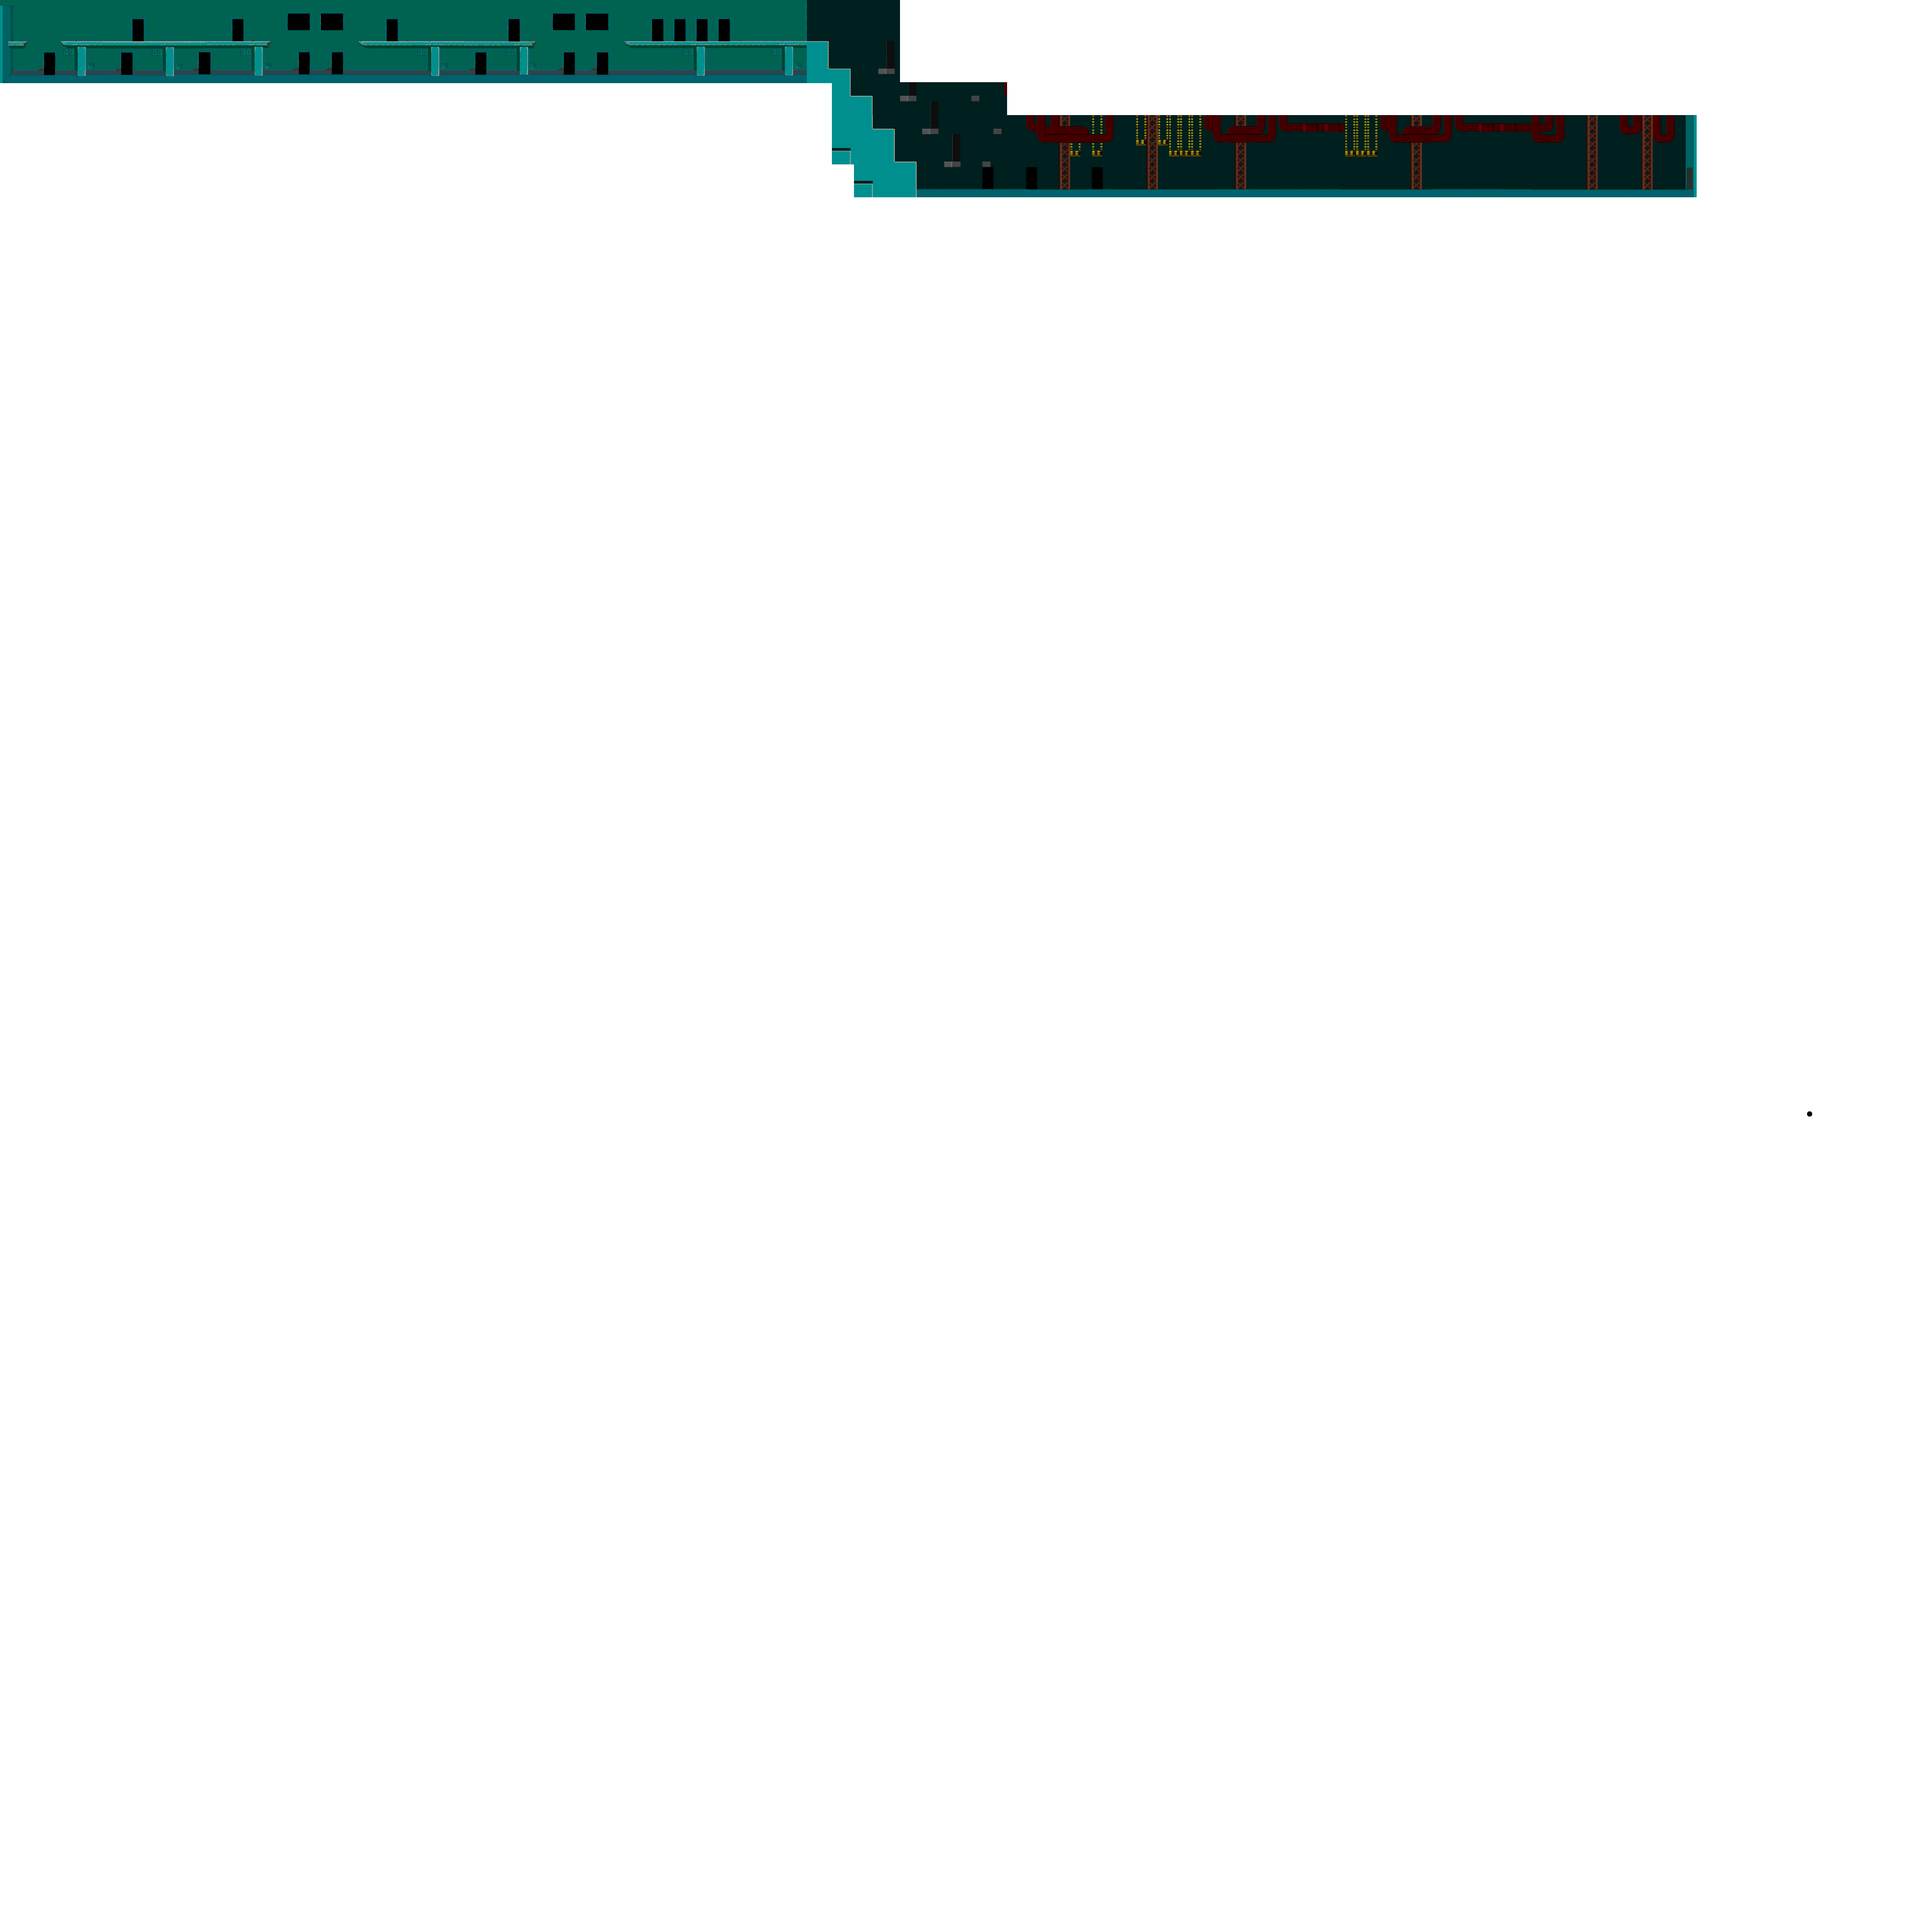
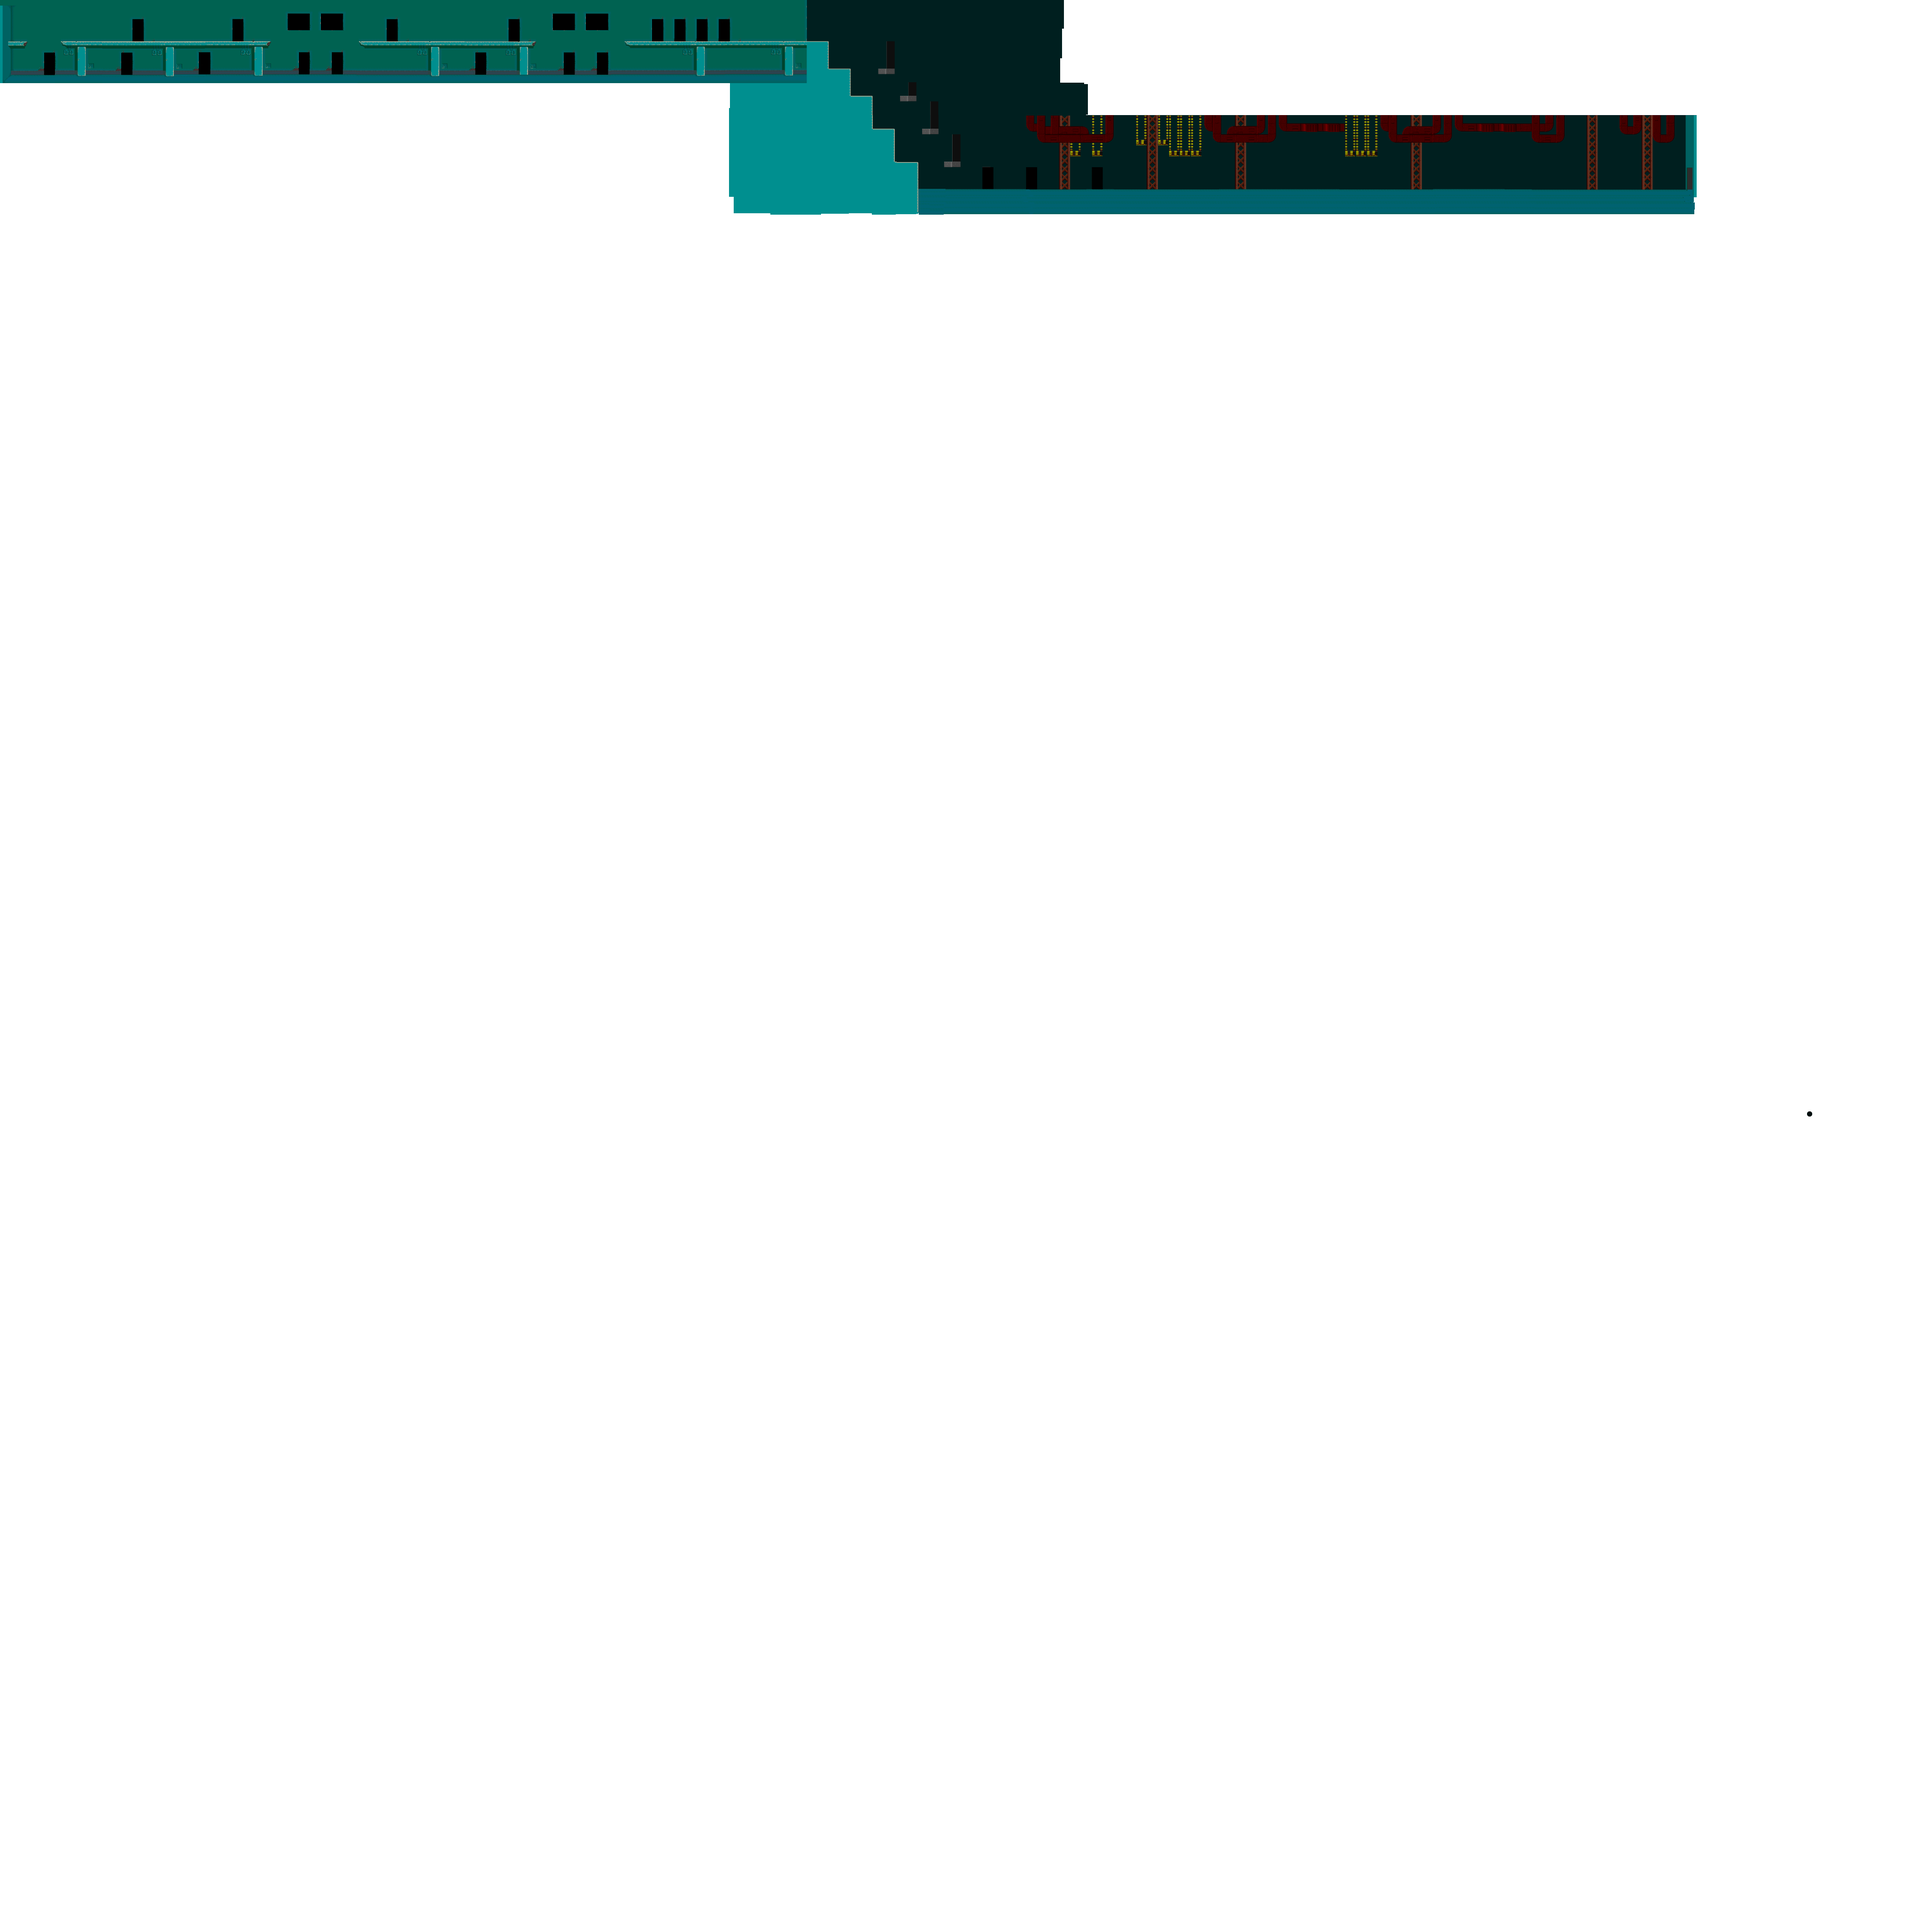
ffaa

Changed region(s): [[0.375, 0.0312, 0.875, 0.125], [0.4688, 0.0, 0.5625, 0.0625]]

diff --git a/src/Game/Game.cpp b/src/Game/Game.cpp
@@ -62,6 +62,10 @@ void Game::run()
 	new Door(1436, 41);
 	new Door(1483, 41);
 	new Door(1530, 41);
+    new Door(2091, 356);
+    new Door(2185, 356);
+    new Door(2323, 356);
+  
 
     //rails
     //Rail* rail = new Rail(82, 55);
@@ -112,7 +116,7 @@ void Game::run()
 	//Door* debugDoor = new Door(0, 0);
 	//debugDoor->changeOpacity(false);
    // debugRail->changeOpacity(false);
-   // sf::Vector2f worldPos;
+    //sf::Vector2f worldPos;
 
     enemySpawnClock->restart();
     new Enemy(sf::Vector2f(200, 107),false); 
@@ -417,8 +421,8 @@ void Game::runGameplayBehavior(char actionFlags)
     /*if (debug)
     {
         worldPos = window.mapPixelToCoords(sf::Mouse::getPosition());
-        debugRail->setPos(worldPos);
-        debugRail->changeOpacity(false);
+        debugDoor->setPos(worldPos);
+        debugDoor->changeOpacity(false);
     }*/
 
 
@@ -445,7 +449,7 @@ void Game::runGameplayBehavior(char actionFlags)
     //enemy->update(player);
 
     //This is for the enemy spawning via door.
-    if (enemySpawnClock->getElapsedTime().asSeconds() > 3)
+    if (enemySpawnClock->getElapsedTime().asSeconds() > 8)
         *allowEnemyDoorSpawn = true;
 
     //This is the main update for the door

diff --git a/src/Entity/Door/Door.cpp b/src/Entity/Door/Door.cpp
@@ -112,7 +112,7 @@ void Door::update(char actionFlags, float x, float y, bool* allowEnemyDoorSpawn,
 	int playerDistanceY = abs(y - sprite.getPosition().y);
 
 	//change to check the Y coordinate of player position
-	if ((playerDistanceX < 50 && *allowEnemyDoorSpawn && doorFrameCount == 0)||enemySpawned)
+	if (((playerDistanceX* playerDistanceX) + (playerDistanceY* playerDistanceY) < 2500 && *allowEnemyDoorSpawn && doorFrameCount == 0)||enemySpawned)
 	{
 		enemySpawned = true;
 		//door opens

diff --git a/src/Entity/Door/Door.h b/src/Entity/Door/Door.h
@@ -37,9 +37,12 @@ private:
 	sf::Clock enemyClock;
 	bool startOpen;
 	bool opened;
+	//for walking out
+	bool topFloor;
 	bool opening = false;
 	bool closing = false;
 	bool stop;
+	int spawnCount = 0;
 	bool closed;
 	bool spawnOnce;//used to make sure only one enemy spawns when enemys are spawning from doors
 	int pause;
